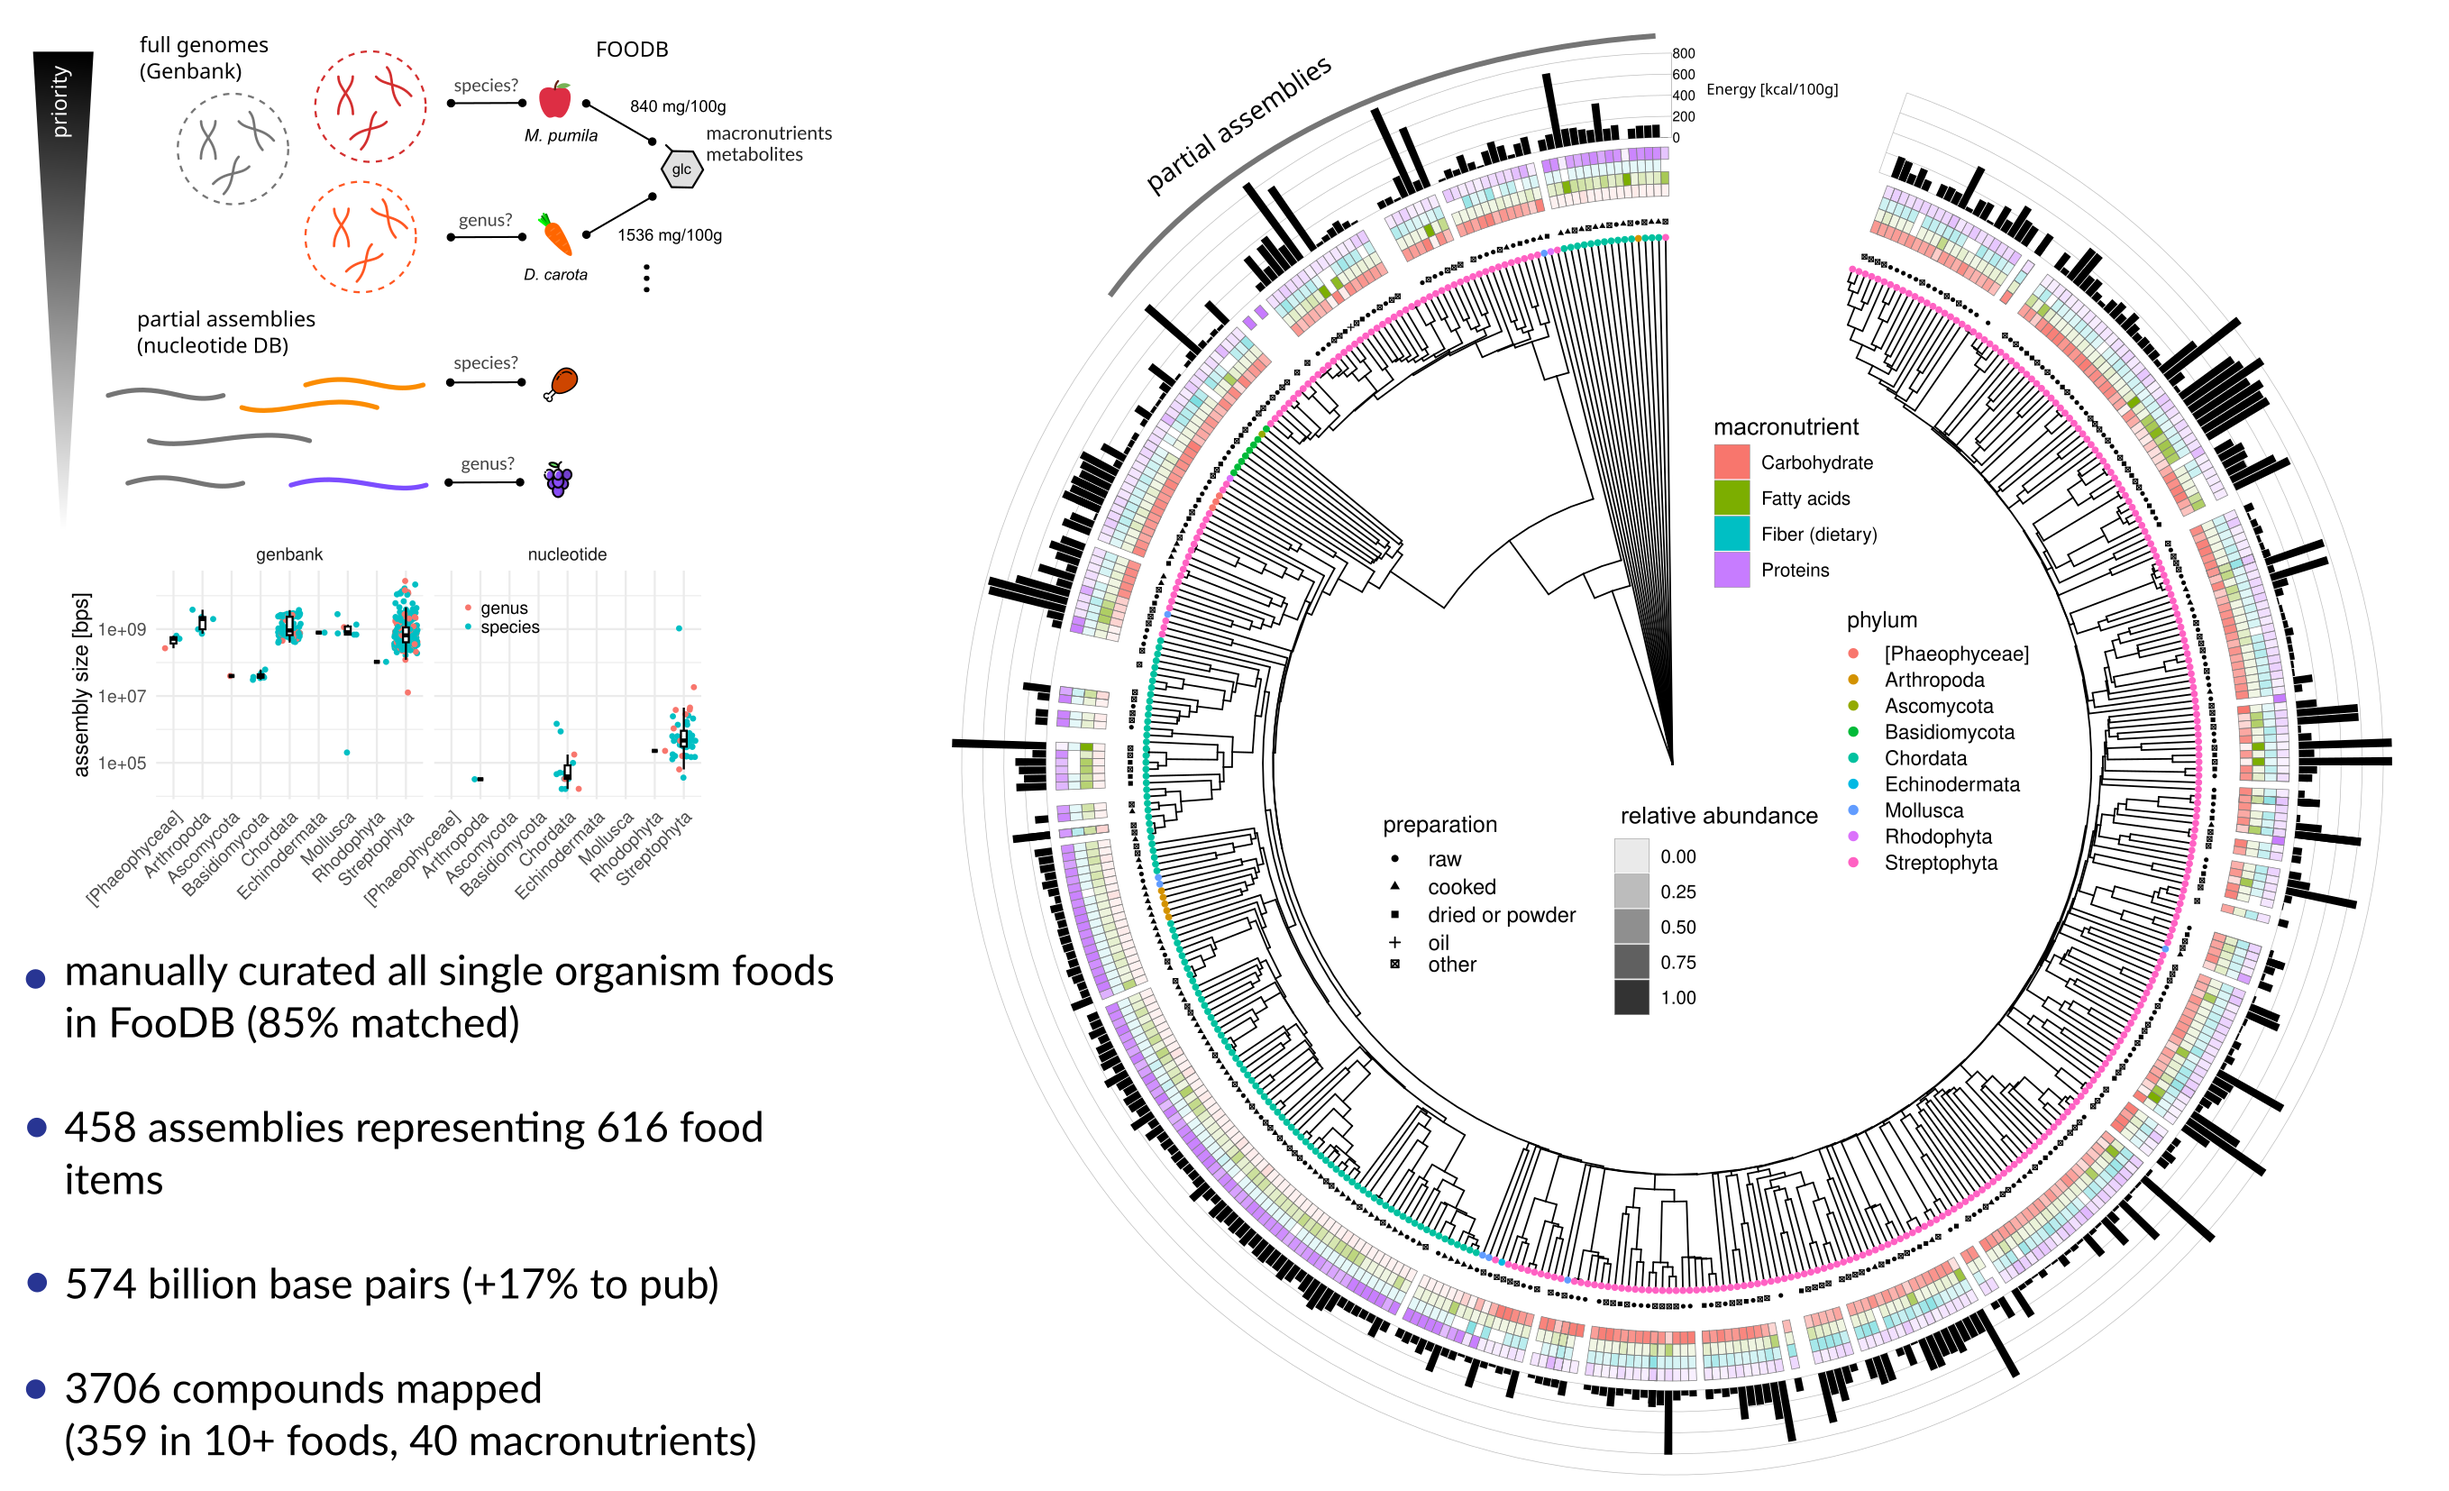
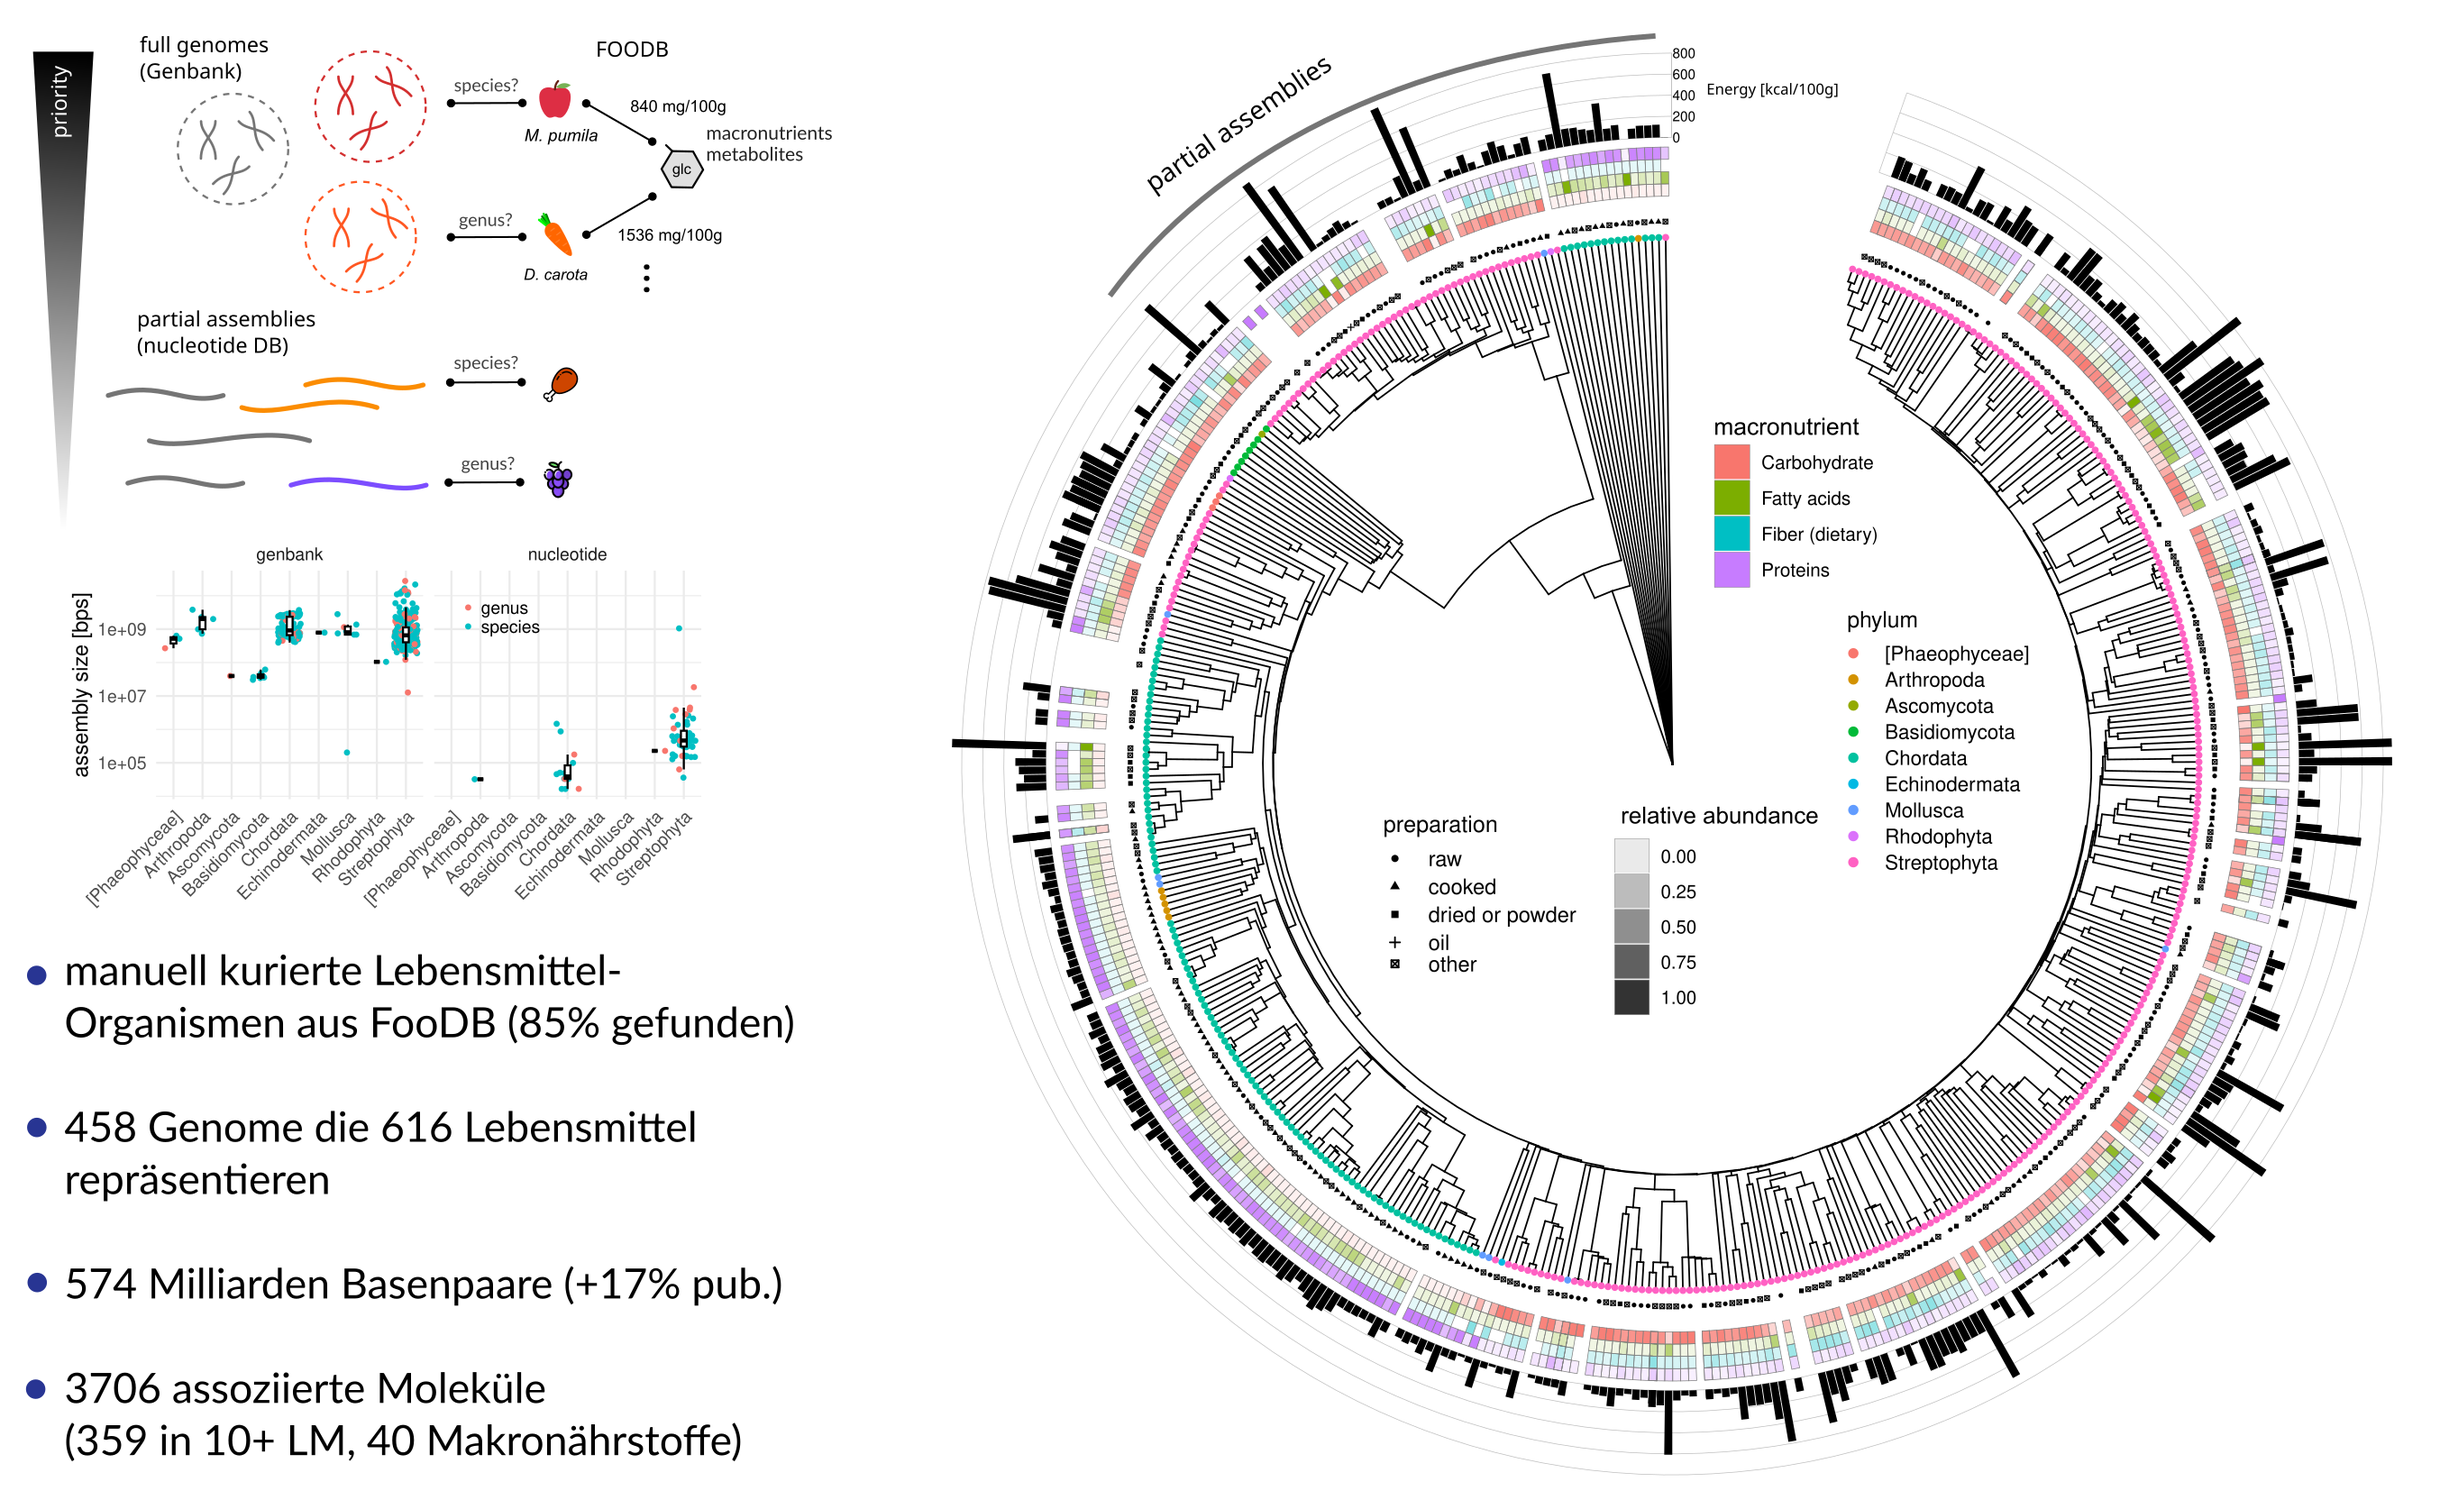
update talk

diff --git a/2026_dach_symposium/talk.md b/2026_dach_symposium/talk.md
@@ -12,7 +12,7 @@ D&FI für Hygiene, Mikrobiologie und Umweltmedizin
 
 <br><br>
 <div class="footer">
-<a href="https://creativecommons.org/licenses/by-sa/4.0/"><i class="fa-solid fa-camera-retro"></i>CC BY-SA 4.0</a>
+<a href="https://creativecommons.org/licenses/by-sa/4.0/"><i class="fa-solid fa-camera-retro"></i>internal</a>
 <a href="https://dienerlab.com"><i class="fa-solid fa-house-signal"></i></i>dienerlab.com</a>
 <a href="https://github.com/dienerlab"><i class="fa-brands fa-github"></i>dienerlab</a>
 <a href="https://bsky.app/profile/cdiener.com"><i class="fa-brands fa-bluesky"></i></i>@cdiener.com</a>
@@ -50,8 +50,15 @@ Cuparencu et al., 2024 Nature Metabolism, https://doi.org/10.1038/s42255-024-010
 
 <img src="assets/metabolomics.png" width="70%">
 
-Breite Marker schon seit langem im Einsatz (Carnitin, Karotene). Neuer ist die
-Anwendung von Breitspektrum-Methoden (untargeted).
+Einzelne Marker für Labensmittelgruppen schon seit langem im Einsatz (Carnitin, Karotene).
+
+Neuer ist die Anwendung von *Breitspektrum-Methoden* (untargeted, z.B. FoodMAST).
+
+<div class="footnote">
+
+West, Schmid, Gauglitz et al. 2022 NPJ Sci Food, https://doi.org/10.1038/s41538-022-00137-3
+
+</div>
 
 ---
 
@@ -59,8 +66,8 @@ Anwendung von Breitspektrum-Methoden (untargeted).
 
 <img src="assets/poop_hero.png" width="60%">
 
-Stuhlproben enthalten überraschend viele Proteine und DNA von Lebensmitteln. Können
-wir sie potentiell als Biomarker nutzen.
+Stuhlproben enthalten *überraschend* viele *Proteine* und *DNA* von Lebensmitteln. Können
+wir sie potentiell als Biomarker nutzen?
 
 ---
 
@@ -87,6 +94,18 @@ DK Superdock et al. 2025, mSystems, https://doi.org/10.1128/msystems.00158-25
 
 </div>
 
+----
+
+## Dietary plant variety in early life
+
+<img src="assets/david_maturation.jpg" width="80%">
+
+<div class="footnote">
+
+McDonald et al., preprint, https://doi.org/10.1101/2025.02.28.25323117
+
+</div>
+
 ---
 
 ## Metagenomik - DNA von Allem
@@ -99,11 +118,11 @@ DK Superdock et al. 2025, mSystems, https://doi.org/10.1128/msystems.00158-25
 
 <img src="https://imgs.xkcd.com/comics/here_to_help.png" width="50%" style="display: block; margin: 2em auto">
 
-1. Obwohl es relativ große Lebensmitteldatenbanken gibt, gibt es keine Genomdatenbank. Für viele Lebensmittel
-   gibt es noch keine repräsentatives Genom.
+1. Obwohl es relativ große Lebensmitteldatenbanken gibt, gibt es *keine Genomdatenbank*. Für viele Lebensmittel
+   gibt es noch kein repräsentatives Genom.
 
 2. Homologie, evolutionäre Konservierung, und Probenverunreinigung führen zu *sehr vielen*
-   inkorrekten Yuordnungen von bakterieller DNA zu Lebensmitteln. Die naive Methode findet daher
+   inkorrekten Zuordnungen von bakterieller DNA zu Lebensmitteln. Die naive Methode findet daher
    oft *alle* möglichen Lebensmittel in einer Probe.
 
 <div class="footnote">
@@ -122,7 +141,7 @@ Comic von https://xkcd.com/1831/
 
 <div class="footnote">
 
-C Diener et al. 2025, Nature Metabolism, https://doi.org/10.1038/s42255-025-01220-1
+Diener et al., 2025 Nature Metabolism, https://doi.org/10.1038/s42255-025-01220-1
 
 </div>
 
@@ -134,7 +153,7 @@ C Diener et al. 2025, Nature Metabolism, https://doi.org/10.1038/s42255-025-0122
 
 ---
 
-## Identifizierung mit Ködern für falsch Positive
+## Identifizierung mit sekundären Ködern
 
 <img src="assets/fig2.png" width="90%" />
 
@@ -183,6 +202,7 @@ Höhere Korrelation mit Darmmikrobiom als Ernährungsfragebögen (Mantel-Test).
 - hohe Spezifizität (bis auf Speziesebene)
 - quantitativ für Lebensmittel und semi-quantitativ für Nährstoffe
 - schnell und retrospektiv
+- standardisiert
 
 </div>
 
@@ -204,12 +224,8 @@ Höhere Korrelation mit Darmmikrobiom als Ernährungsfragebögen (Mantel-Test).
 <img src="assets/outlook.png" width="100%" style="display: block; margin: auto auto">
 
 
-<div class="footnote">
-
 Mehr dazu: Cuparencu et al., "Integration of modern technologies to advance dietary assessment", 2026 Nature Foods<br>
 verfügbar am Montag 26.01.2016
-
-</div>
 
 ---
 
@@ -217,7 +233,7 @@ verfügbar am Montag 26.01.2016
 
 # Danke! :smile:
 
-<br><br>
+<br>
 
 <div style="display: flex; align-items: center; justify-content: space-evenly">
 
